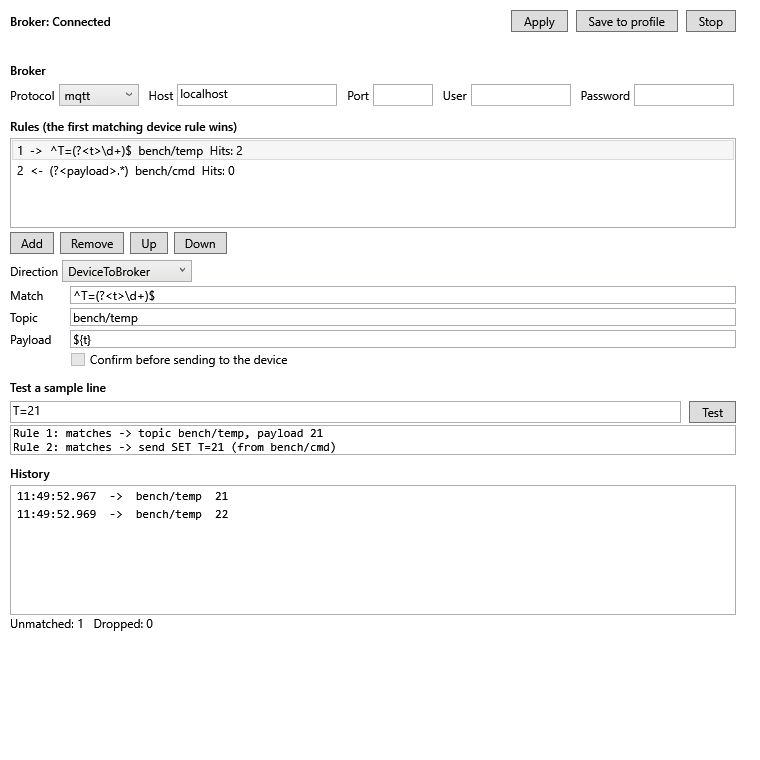
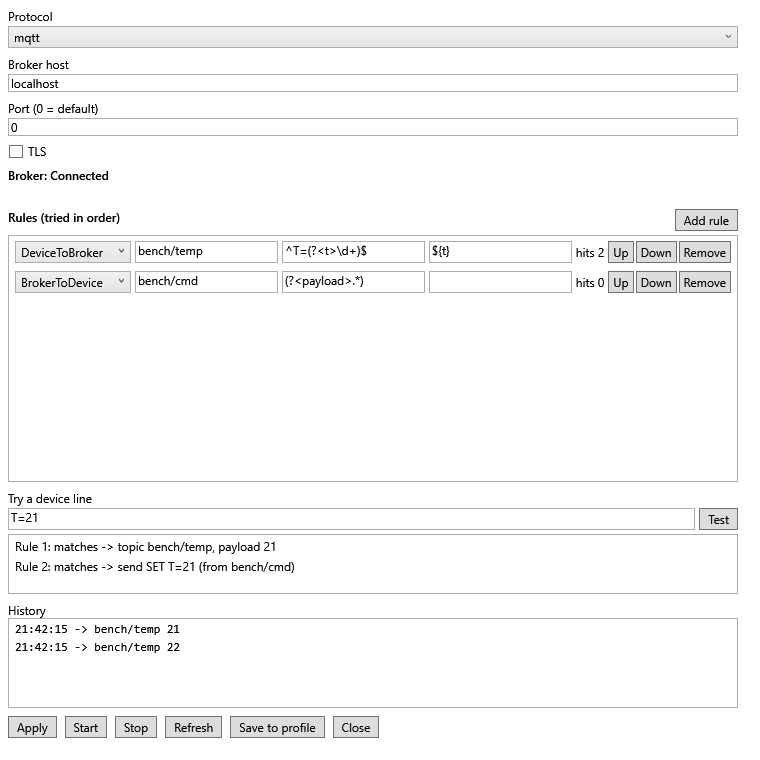
Capture the WPF routing window for the user guide

diff --git a/src/Applications/OoBDev.DevTerm.Wpf.Tests/RoutingScreenshotTests.cs b/src/Applications/OoBDev.DevTerm.Wpf.Tests/RoutingScreenshotTests.cs
@@ -1,0 +1,71 @@
+using System;
+using System.Buffers;
+using System.Text;
+using System.Threading;
+using System.Threading.Tasks;
+using DevTermApp;
+using Microsoft.VisualStudio.TestTools.UnitTesting;
+using OoBDev.DevTerm;
+using OoBDev.DevTerm.Configuration;
+using OoBDev.DevTerm.Wpf;
+
+namespace OoBDev.DevTerm.Wpf.Tests;
+
+/// <summary>The routing window with a connected broker, two rules and some traffic, captured for the user guide.</summary>
+[DoNotParallelize]
+[TestCategory("DevLocal")]
+[TestClass]
+public sealed class RoutingScreenshotTests
+{
+    [TestMethod]
+    public void RoutingWindow_WithTraffic_IsCaptured() =>
+        WpfScreenshot.Capture(BuildWindow, "wpf-routing.png", 760, 760);
+
+    private static RoutingWindow BuildWindow()
+    {
+        var options = new CliOptions { Transport = "loopback" };
+        options.Routing.Host = "localhost";
+        options.Routing.Rules =
+        [
+            new RoutingRule { Direction = RoutingDirection.DeviceToBroker, Match = @"^T=(?<t>\d+)$", Topic = "bench/temp", Payload = "${t}" },
+            new RoutingRule { Direction = RoutingDirection.BrokerToDevice, Match = "(?<payload>.*)", Topic = "bench/cmd", Send = "SET ${payload}", Confirm = true },
+        ];
+        var tab = SessionTab.Build(options);
+        tab.RoutingLinkFactory = new FakeLinkFactory();
+        tab.Session.OpenAsync().GetAwaiter().GetResult();
+        for (var i = 0; i < 200 && tab.Routing.State != RoutingState.Connected; i++)
+        {
+            Thread.Sleep(10);
+        }
+
+        Assert.AreEqual(RoutingState.Connected, tab.Routing.State);
+        foreach (var line in new[] { "T=21", "T=22", "hello" })
+        {
+            tab.Routing.Router!.Render(new ReadOnlySequence<byte>(Encoding.UTF8.GetBytes(line + "\r\n")));
+        }
+
+        var dialog = new RoutingDialogViewModel(new RoutingViewModel(tab)) { SampleText = "T=21" };
+        dialog.TestRulesCommand.Execute(null);
+        return new RoutingWindow(dialog);
+    }
+
+    private sealed class FakeLinkFactory : IRoutingLinkFactory
+    {
+        public IRoutingLink Create(RoutingOptions options) => new FakeLink();
+    }
+
+    private sealed class FakeLink : IRoutingLink
+    {
+        public event Action<Exception?>? Lost
+        {
+            add { }
+            remove { }
+        }
+
+        public Task StartAsync(MessageRouter router, CancellationToken cancellationToken) => Task.CompletedTask;
+
+        public Task PublishAsync(string topic, ReadOnlyMemory<byte> payload, CancellationToken cancellationToken) => Task.CompletedTask;
+
+        public ValueTask DisposeAsync() => ValueTask.CompletedTask;
+    }
+}

diff --git a/BACKLOG.md b/BACKLOG.md
@@ -12,14 +12,14 @@ GitHub is no longer the primary repository (local bare repo `origin`), so nothin
 
 Owner: all protocols and features of dev-term must exist here. Done means what dev-term has today; its own future plans are in section 8. Status, slices and leftovers: [status.md](docs/design/DevTermParity/status.md); matrix: [README](docs/design/DevTermParity/README.md); restructure steps 0 to 6 are done.
 
-- [ ] None of the WPF windows were viewed running: capture the remaining windows with `WpfScreenshot` (done: connection editor, converter tools, stream monitor, expression pickers) and migrate the layout review tests ([status.md](docs/design/DevTermParity/status.md)).
+- [ ] None of the WPF windows were viewed running: capture the remaining windows with `WpfScreenshot` (done: connection editor, converter tools, stream monitor, expression pickers, routing) and migrate the layout review tests ([status.md](docs/design/DevTermParity/status.md)).
 - [ ] **DevTerm docs into living documents** (owner, 2026-10-30): fold the imported design, spec and device folders in `docs/applications/devterm/` into the living documents feature by feature, move reusable designs (transports, presenters, UI definitions, manifests, session logging) to `docs/design/<Feature>/`, then delete each folder per [the map](docs/migration/devterm-docs-map.md); point the generated Tui guide output at `docs/applications/devterm/user-guide`.
 - [ ] Port dev-term's coding-standards tests (device docs, one test category per test; snapshots in `docs/applications/devterm/source/`) and wire its containers (`containers/devterm`: mosquitto, ser2net, loopback-device, rabbitmq TLS and STOMP) into `containers/testing` with the `add-integration-service` skill.
 - [ ] **Surroundings review of the other migrated projects** (owner, 2026-10-30; dev-term is done, see [the review](docs/migration/devterm-surroundings-review-2026-10-30.md)): repeat for BinaryDataDecoders and each harvest project: guide, `.claude` configuration, docs, open questions, TODO and BACKLOG, UIs, tests, scripts and plans, each migrated or rejected with a reason; application docs go to `docs/applications/{app-name}/`.
 - [ ] Bench hardware ([list](docs/how-tos/test-hardware.md)): write Hardware tests for the Korad KA3005P/KA6003P (settings exist in `src/.runsettings`); move the Tui DevLocal tests off dev-term's `RealTcpDevice*` names. The identify tests for the HP 34401A, TDS2024 and both 2230s exist (`BenchInstrumentTests`; the second 2230 is offline).
 - [ ] **Generated guides** (owner, 2026-10-30): [design](docs/design/GeneratedGuides/README.md); journey-driven user guides and screenshots for Tui, WPF and Web written straight into `docs/applications/{app}/user-guide`, API guides from OpenAPI, AsyncAPI and ksy files by MSTest scripts, JavaScript projects as `.esproj` with `npm test`.
 - Find why a full Tui Unit run rewrites `tui-manifest-editor*`, `tui-plugin-approval*` images and their `.txt` captures even through `image-mask sync` (nondeterministic content or a missing zone); then add zones.
-- Capture the remaining WPF windows through `WpfScreenshot`/`GuideImage` (connection editor, converter tools, stream monitor and expression pickers done); Tui and Web are routed; see [GeneratedGuides](docs/design/GeneratedGuides/README.md).
+- Capture the remaining WPF windows through `WpfScreenshot`/`GuideImage` (connection editor, converter tools, stream monitor, expression pickers and routing done); Tui and Web are routed; see [GeneratedGuides](docs/design/GeneratedGuides/README.md).
 - Generated user guides for the `src/Tools` command-line tools (journeys, captured output, screenshots where there is a UI); later, after the application guides; see [GeneratedGuides](docs/design/GeneratedGuides/README.md).
 - [ ] Docs check for imported material: every file under `docs/applications/{app}/` is linked from its README or listed in the transient map in `docs/migration/` (extend `OoBDev.Docs.Tests`; widen its default scope to `docs/applications`).
 - [ ] Move `FakeDeviceConfigEditor`, `FakeTransport` and `ManualTimeProvider` into `OoBDev.DevTerm.TestUtilities` ([plan](docs/design/DevTermParity/test-utilities-plan.md)); each needs Core references.

diff --git a/docs/changes/devterm-wpf-screenshot-capture-2026-10-30.md b/docs/changes/devterm-wpf-screenshot-capture-2026-10-30.md
@@ -6,6 +6,7 @@
 - `ConnectionEditorScreenshotTests` (DevLocal) captures the connection editor for tcp, serial and loopback into `docs/applications/devterm/user-guide/images/wpf-device-profiles-*.png`; a second run leaves the images byte-identical.
 - `ToolWindowScreenshotTests` (DevLocal) captures the converter tools and the empty stream monitor (`wpf-converter-tools.png`, `wpf-stream-monitor.png`); `WpfScreenshot.Capture` builds a window on an STA thread, shows it off-screen, saves it through `GuideImage` and closes it.
 - `ExpressionPickerScreenshotTests` (DevLocal) captures the expression picker in its seven states (`wpf-expression-picker*.png`: plain, error, warning, text, parameters, find, channels), identical across repeated runs.
+- `RoutingScreenshotTests` (DevLocal) captures the routing window with a fake broker link, two rules and traffic (`wpf-routing.png`); the history timestamps are a masked zone in `zones.json`.
 - `OoBDev.DevTerm.Wpf.Tests` references `OoBDev.DevTerm.TestUtilities`.
 
 ## Not done

diff --git a/TODO.md b/TODO.md
@@ -8,7 +8,7 @@ Keep this file short (about 15 one-line items). When an item starts, move it her
 
 ## In progress
 
-- [ ] **DevTerm parity, WPF shell**: all five slices are built; left is viewing the windows running (`WpfScreenshot` is migrated and the connection editor, converter tools, stream monitor and expression pickers captured; the other windows and the layout review are left); detail in [status.md](docs/design/DevTermParity/status.md).
+- [ ] **DevTerm parity, WPF shell**: all five slices are built; left is viewing the windows running (`WpfScreenshot` is migrated and the connection editor, converter tools, stream monitor, expression pickers and routing captured; the other windows and the layout review are left); detail in [status.md](docs/design/DevTermParity/status.md).
 
 ## Next
 
